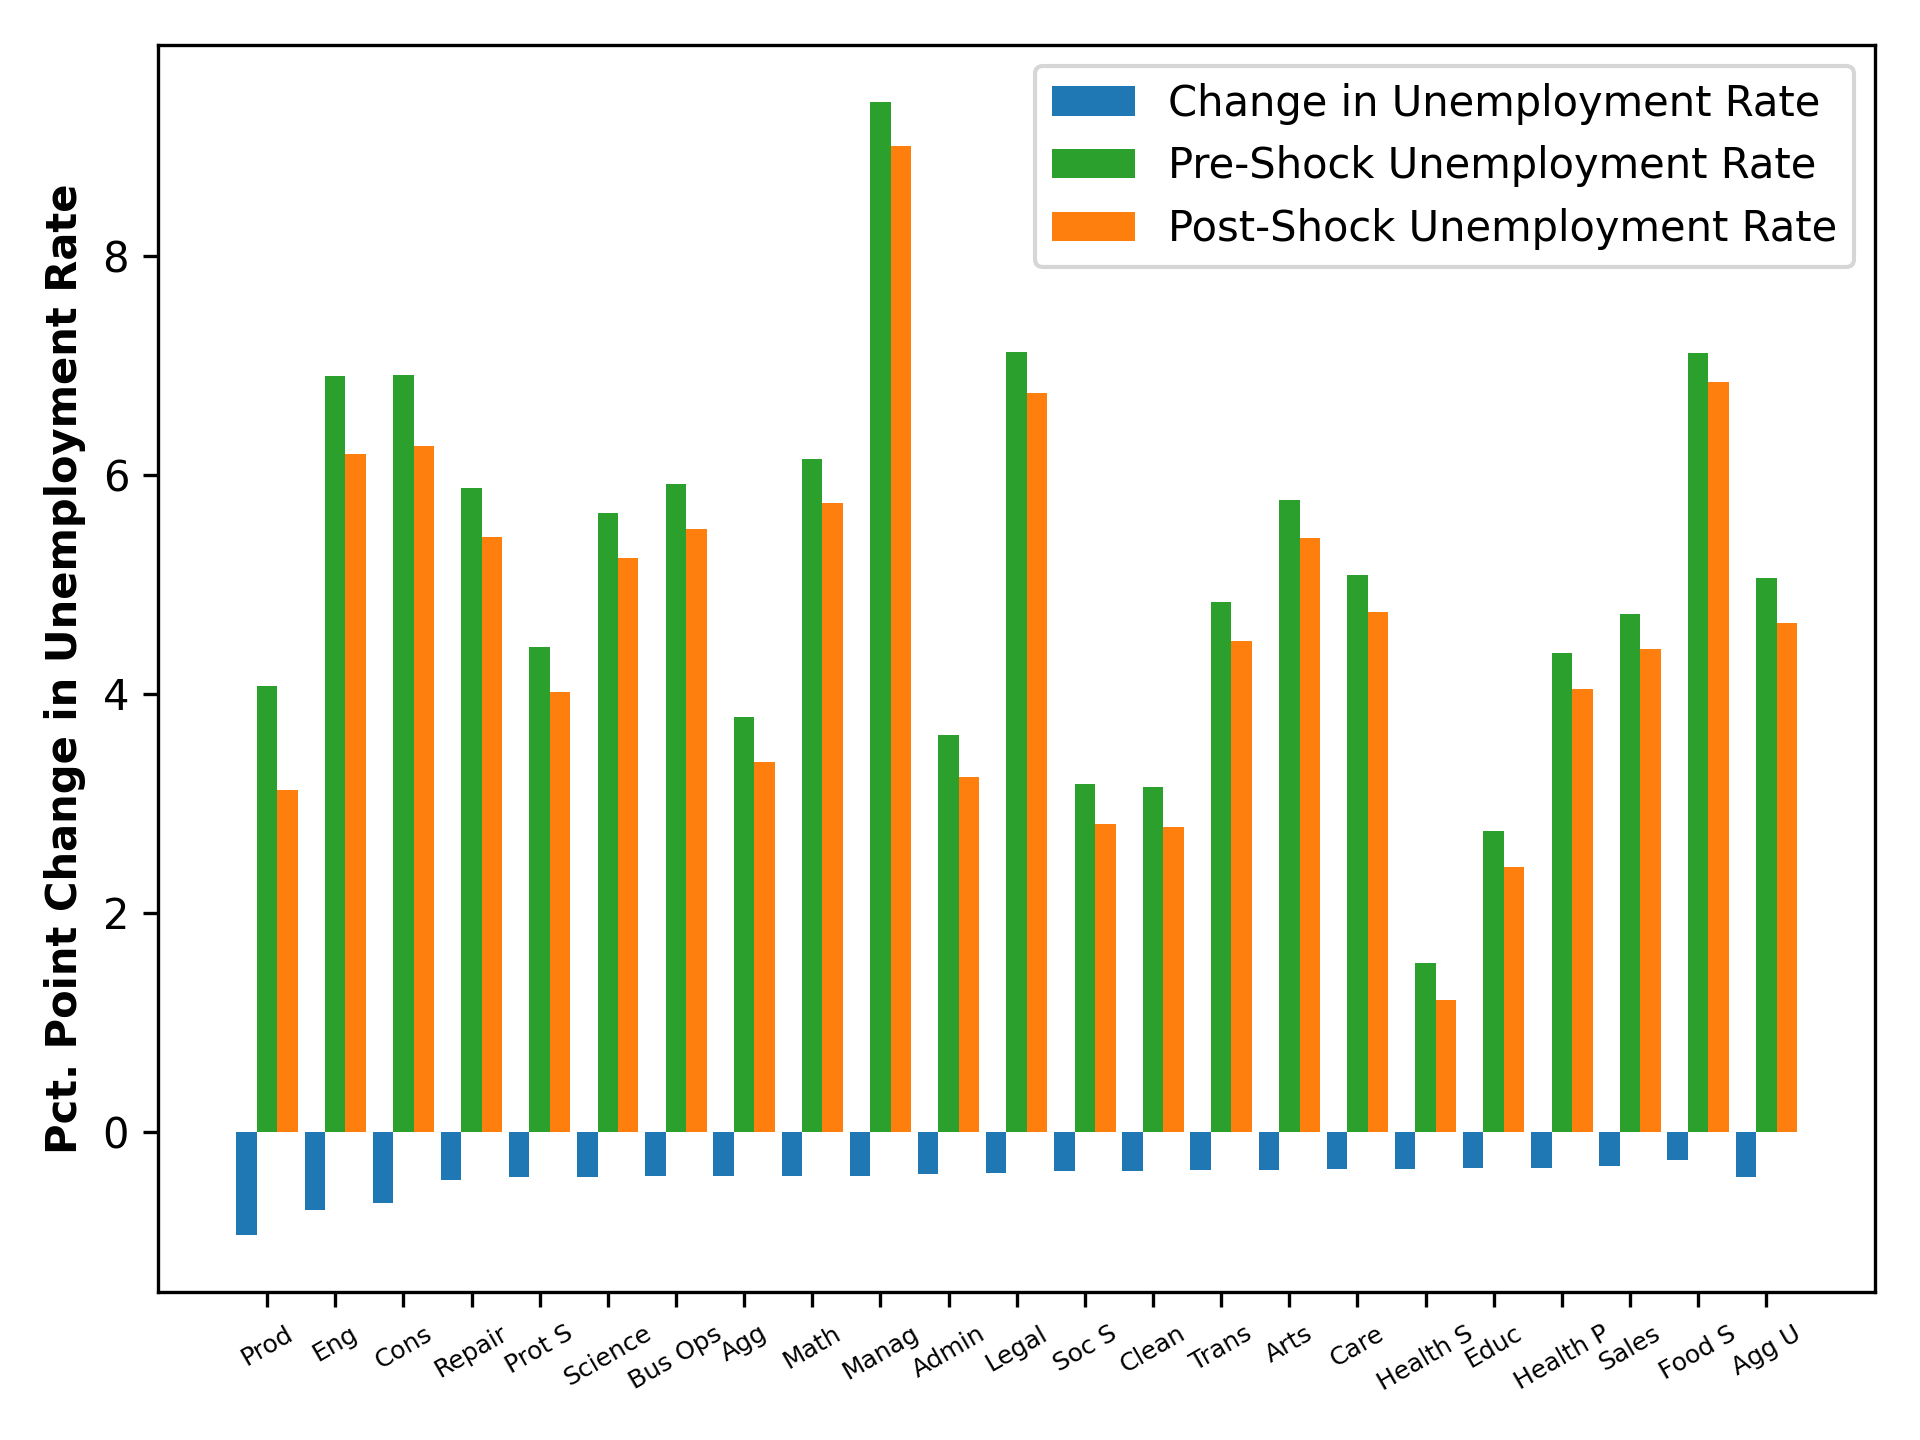
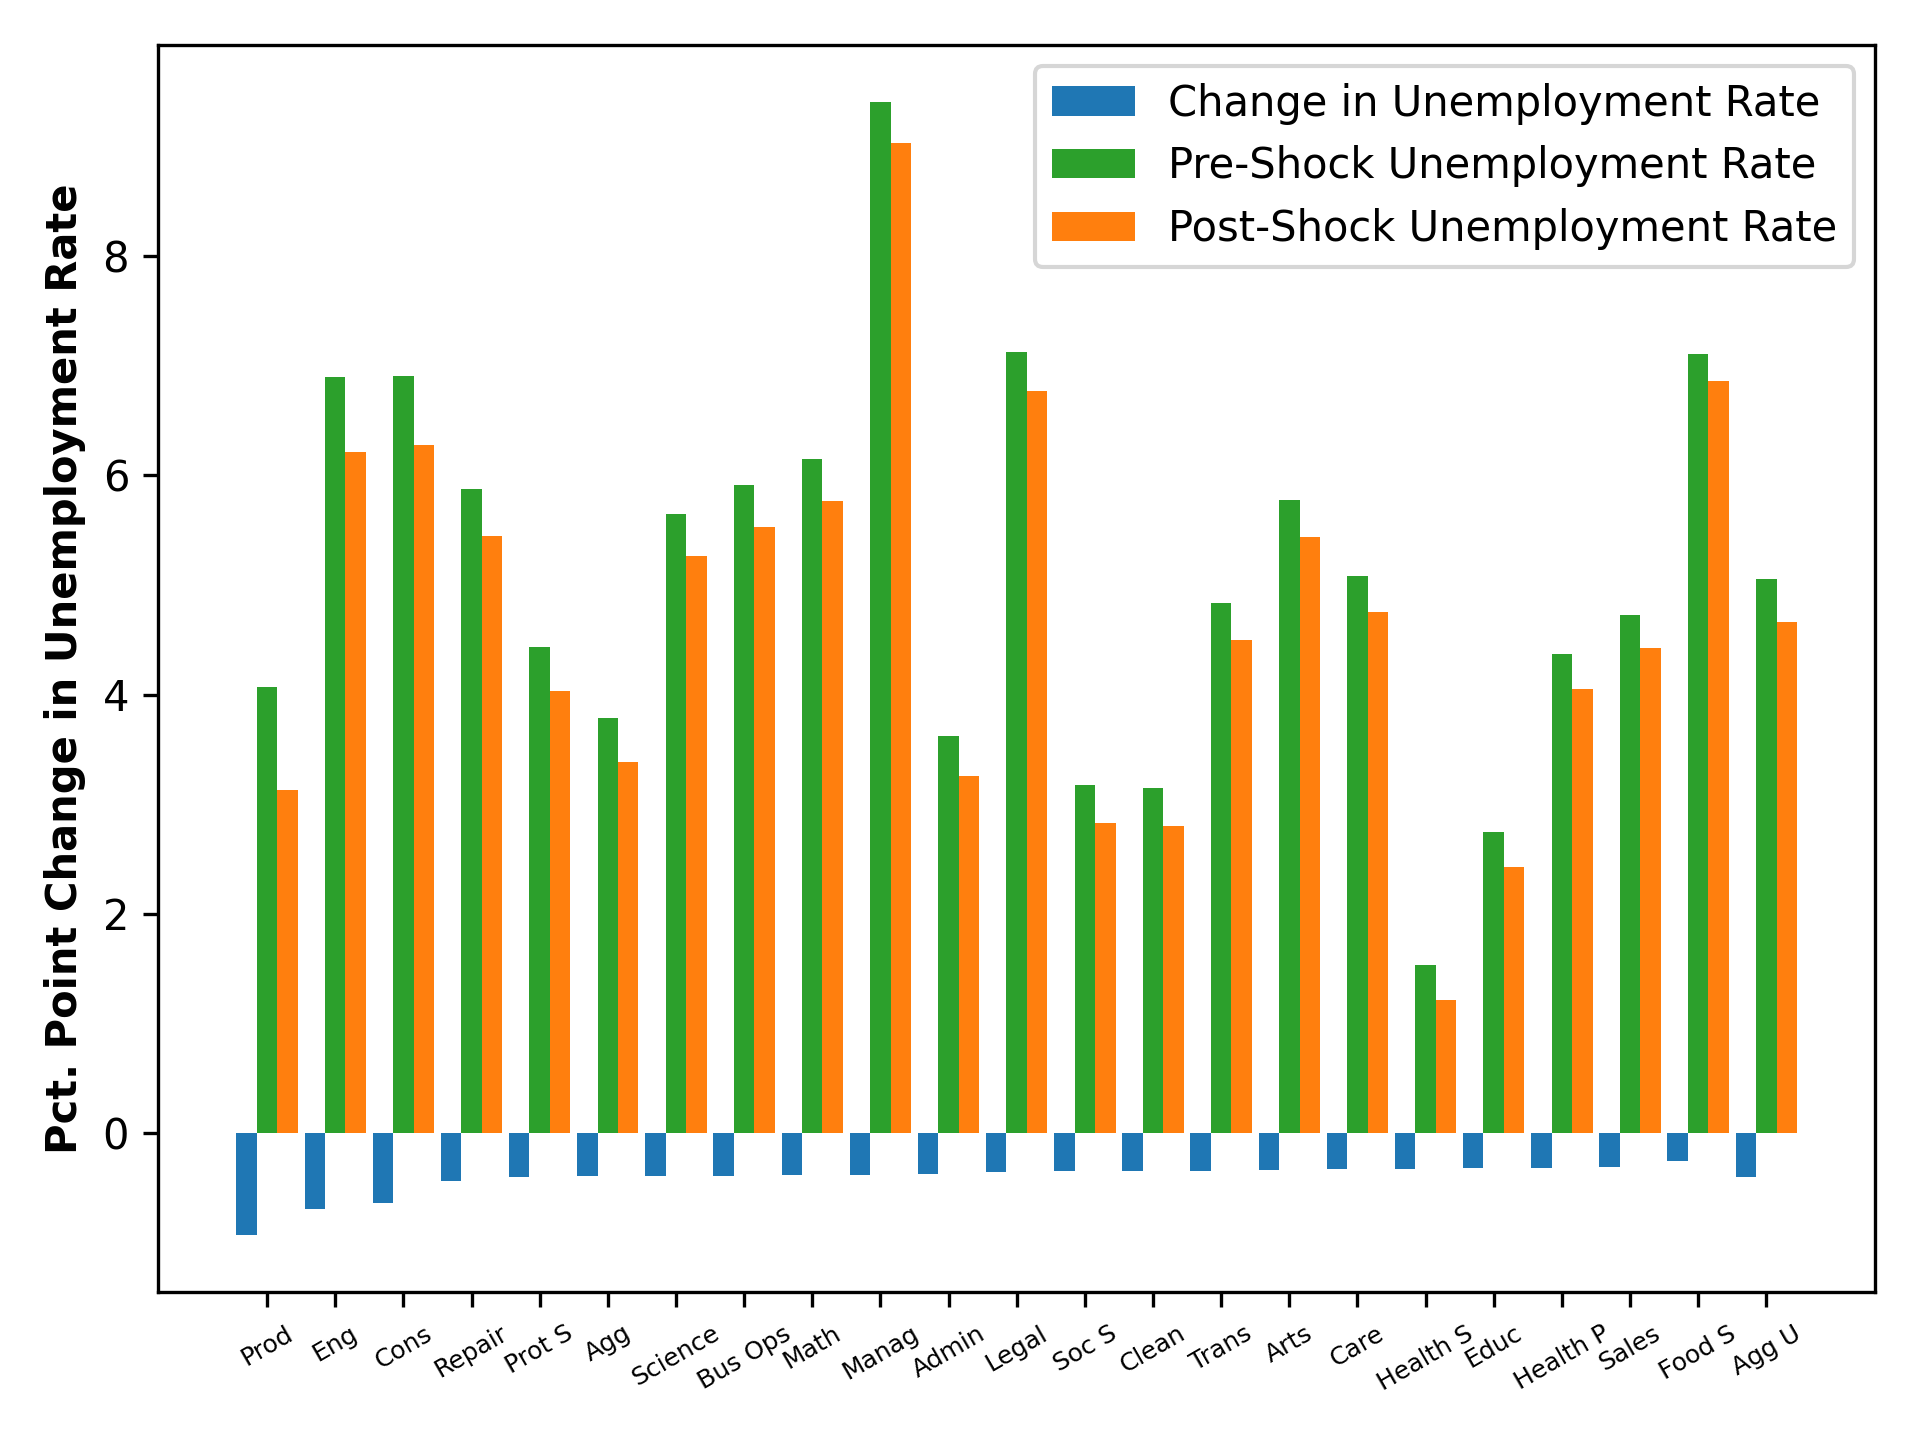
updated presentation figures

Changed region(s): [[0.3125, 0.3438, 0.4062, 0.5312], [0.2812, 0.9062, 0.4062, 0.9688]]

diff --git a/code/presentation_figures.py b/code/presentation_figures.py
@@ -133,12 +133,12 @@ if do_unemployment:
 i = WageAssumption.index('Labor Market Frictions Only')
 epsK_no_network = epsK.copy()
 epsK_no_network[:,0] = np.sum(Omega,axis=1).reshape((J,1))+epsK_no_network[:,1]
-gamma = 0
+gamma = 0.7
 epsW_A, epsW_H, epsW_K = multi_occupation_network.WageElasticityFuncMP(gamma, np.eye(J), epsN, epsK_no_network, curlyF, curlyQ, curlyT, curlyL)
 dlog_wR = multi_occupation_network.WageFunc(dlog_A, dlog_H, dlog_K, epsW_A, epsW_H, epsW_K)
-dlog_theta = multi_occupation_network.ThetaFunc(dlog_A, dlog_H, dlog_K, dlog_wR, dlog_epsN, dlog_lam, np.eye(J), Omega, curlyF, curlyQ, curlyT, curlyE, curlyL, epsN, epsK_no_network)
+dlog_theta = multi_occupation_network.ThetaFunc(dlog_A, dlog_H, dlog_K, dlog_wR, dlog_epsN, dlog_lam, np.eye(J), np.zeros_like(Psi), curlyF, curlyQ, curlyT, curlyE, curlyL, epsN, epsK_no_network)
 occT_vec[:-1, i] = dlog_theta.flatten()
-dlog_y = multi_occupation_network.OutputFunc(dlog_A, dlog_H, dlog_K, dlog_theta, dlog_lam, np.eye(J), Omega, curlyQ, curlyF, epsN, epsK_no_network, curlyT, curlyE)
+dlog_y = multi_occupation_network.OutputFunc(dlog_A, dlog_H, dlog_K, dlog_theta, dlog_lam, np.eye(J), np.zeros_like(Psi), curlyQ, curlyF, epsN, epsK_no_network, curlyT, curlyE)
 sectorY_vec[:-1, i] = dlog_y.flatten()
 sectorY_vec[-1, i] = multi_occupation_network.AggOutputFunc(dlog_y, dlog_lam, dlog_epsD, epsD)
 if do_unemployment:
@@ -151,7 +151,7 @@ if do_unemployment:
 
 #3
 i = WageAssumption.index('Labor Market Frictions + Production Linkages')
-gamma = 0
+gamma = 0.7
 epsW_A, epsW_H, epsW_K = multi_occupation_network.WageElasticityFuncMP(gamma, Psi, epsN, epsK, curlyF, curlyQ, curlyT, curlyL)
 dlog_wR = multi_occupation_network.WageFunc(dlog_A, dlog_H, dlog_K, epsW_A, epsW_H, epsW_K)
 dlog_theta = multi_occupation_network.ThetaFunc(dlog_A, dlog_H, dlog_K, dlog_wR, dlog_epsN, dlog_lam, Psi, Omega, curlyF, curlyQ, curlyT, curlyE, curlyL, epsN, epsK)
